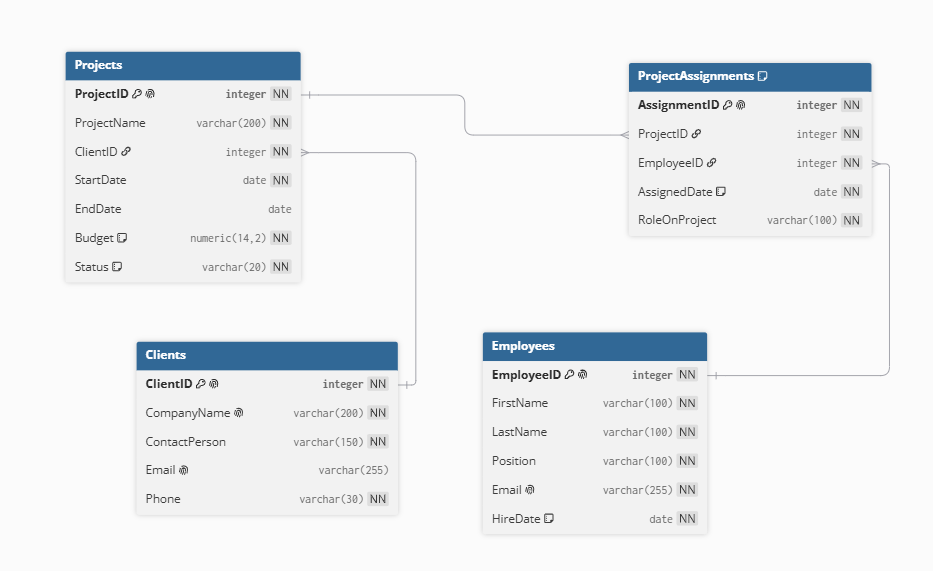
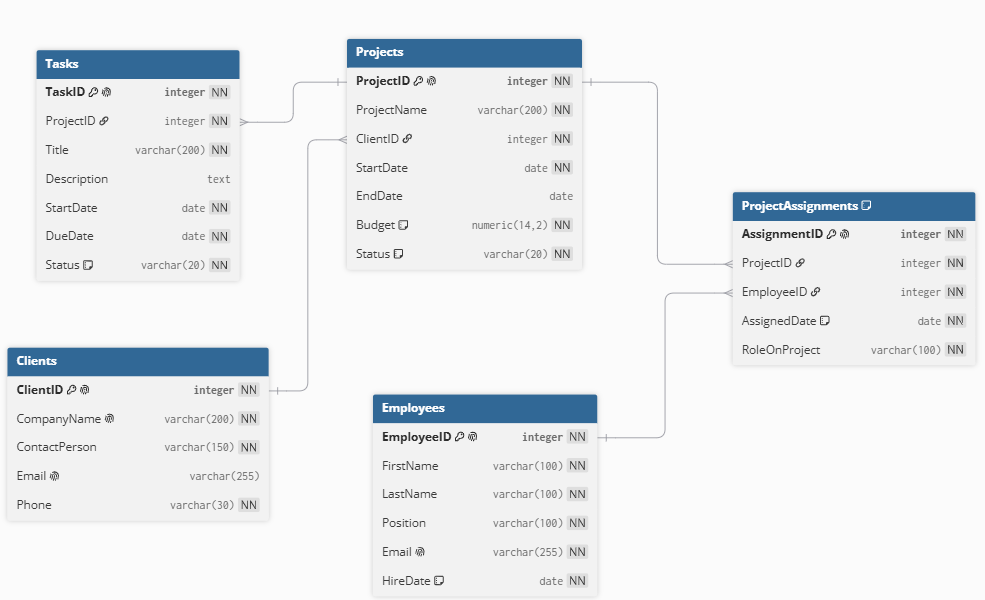
Update homework 2: replace docx with markdown report and update ER diagrams

diff --git a/db_normalization_2/homework_2_report.md b/db_normalization_2/homework_2_report.md
@@ -1,16 +1,19 @@
+# Homework 2 — Управление строительными проектами
+
 ## Part 1: Выбор Сценария
 
 Для данной работы выбран сценарий: **Управление строительными проектами**.  
-Эта система будет управлять клиентами, сотрудниками, строительными проектами и назначением сотрудников на проекты.
+Эта система будет управлять проектами, клиентами, сотрудниками и задачами в рамках проектов.
 
 ## Part 2: Проектирование Базы Данных и Документация
 
 ### Идентификация Сущностей и Атрибутов
 
-1. **Clients (Клиенты)** — заказчики строительных проектов.
-2. **Employees (Сотрудники)** — сотрудники строительной компании.
-3. **Projects (Проекты)** — строительные проекты, заказанные клиентами.
-4. **ProjectAssignments (Назначения на проекты)** — таблица для реализации связи многие-ко-многим между сотрудниками и проектами.
+1. **Clients** (Клиенты)
+2. **Employees** (Сотрудники)
+3. **Projects** (Проекты)
+4. **Tasks** (Задачи)
+5. **ProjectAssignments** (Назначения на проекты) — таблица для реализации связи «многие-ко-многим» между сотрудниками и проектами.
 
 ### Проектирование Таблиц
 
@@ -60,7 +63,24 @@
   - `CHK_Projects_Dates`: CHECK (EndDate IS NULL OR EndDate >= StartDate)
   - `CHK_Projects_Status`: CHECK (Status IN ('planned','in_progress','completed','cancelled'))
 
-#### 4. Table Name: ProjectAssignments
+#### 4. Table Name: Tasks
+
+- **Description:** Задачи, выполняемые в рамках конкретных строительных проектов.
+- **Attributes:**
+  - `TaskID`: INTEGER, PK, NOT NULL, UNIQUE
+  - `ProjectID`: INTEGER, FK (REFERENCES Projects), NOT NULL
+  - `Title`: VARCHAR(200), NOT NULL
+  - `Description`: TEXT
+  - `StartDate`: DATE, NOT NULL
+  - `DueDate`: DATE, NOT NULL
+  - `Status`: VARCHAR(20), NOT NULL, DEFAULT 'open'
+- **Constraints:**
+  - `PK_Tasks`: PRIMARY KEY (TaskID)
+  - `FK_Tasks_Projects`: FOREIGN KEY (ProjectID) REFERENCES Projects(ProjectID)
+  - `CHK_Tasks_Dates`: CHECK (DueDate >= StartDate)
+  - `CHK_Tasks_Status`: CHECK (Status IN ('open','in_progress','done','cancelled'))
+
+#### 5. Table Name: ProjectAssignments
 
 - **Description:** Таблица для реализации связи многие-ко-многим между сотрудниками и проектами. Хранит информацию о том, какой сотрудник назначен на какой проект и в какой роли.
 - **Attributes:**
@@ -81,10 +101,14 @@
   У одного клиента может быть множество проектов, но каждый проект относится к одному клиенту.  
   `Projects.ClientID` является внешним ключом, ссылающимся на `Clients.ClientID`.
 
+- **Projects и Tasks (Один-ко-Многим):**  
+  Один проект может содержать множество задач, но каждая задача относится к одному проекту.  
+  `Tasks.ProjectID` является внешним ключом, ссылающимся на `Projects.ProjectID`.
+
 - **Projects и Employees (Многие-ко-Многим через ProjectAssignments):**  
   Один проект может выполняться несколькими сотрудниками, и один сотрудник может участвовать в нескольких проектах.  
-  - `ProjectAssignments.ProjectID` → `Projects.ProjectID`  
-  - `ProjectAssignments.EmployeeID` → `Employees.EmployeeID`
+  `ProjectAssignments.ProjectID` является внешним ключом, ссылающимся на `Projects.ProjectID`.  
+  `ProjectAssignments.EmployeeID` является внешним ключом, ссылающимся на `Employees.EmployeeID`.
 
 - **Projects и ProjectAssignments (Один-ко-Многим):**  
   Один проект может иметь много записей о назначении сотрудников.
@@ -94,6 +118,6 @@
 
 ## Part 3: ER-Диаграмма
 
-ER-диаграмма спроектированной базы данных представлена в файле `er_diagram.png`, приложенном к домашнему заданию.  
-На диаграмме отражены все таблицы, их атрибуты, типы данных, первичные и внешние ключи, а также связи между сущностями.
+ER-диаграмма спроектированной базы данных представлена ниже:
+
 ![alt text](er_diagram-1.png)
